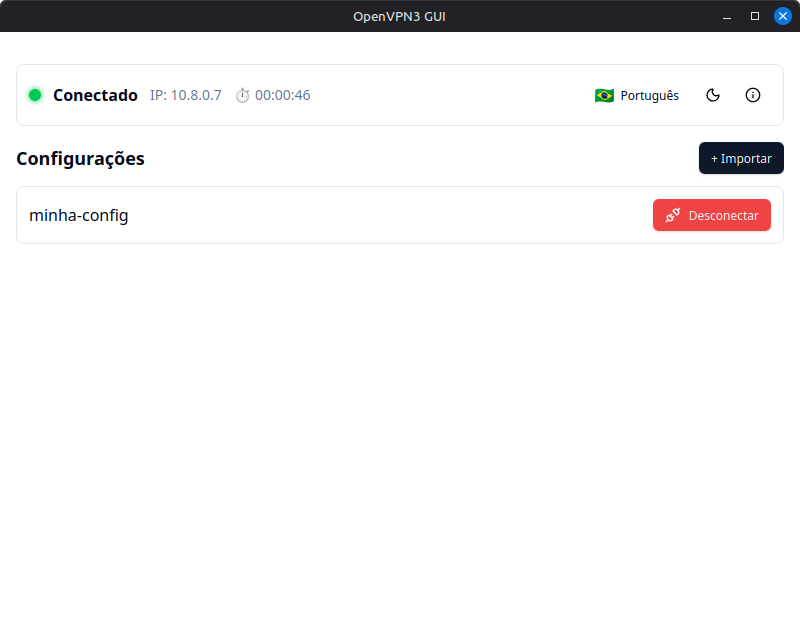
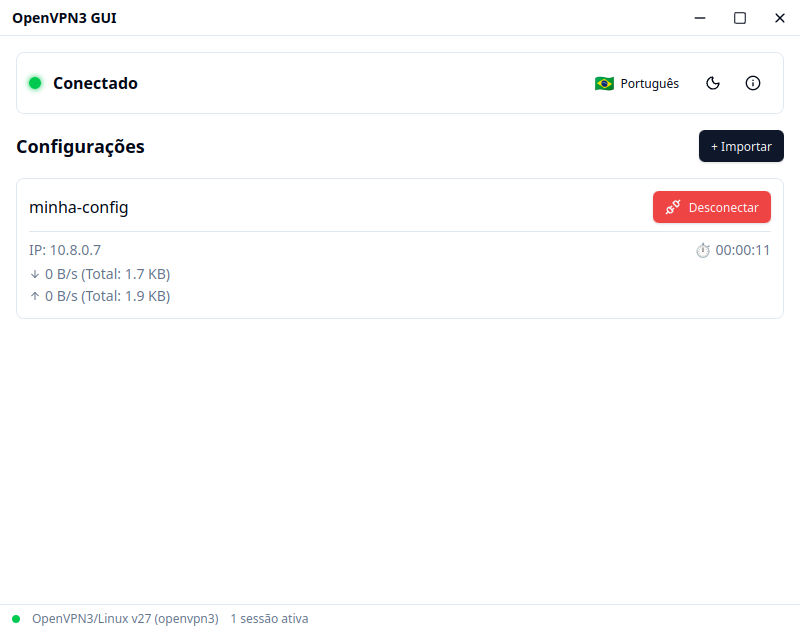
updating docs

diff --git a/docs/src/components/sections/Features.tsx b/docs/src/components/sections/Features.tsx
@@ -1,11 +1,14 @@
-import { FileUp, Plug, Activity, AppWindow, Moon, Languages } from "lucide-react";
+import { FileUp, Plug, Activity, AppWindow, Moon, Languages, BarChart3, PanelTop, Layers } from "lucide-react";
 import { useI18n } from "@/lib/i18n";
 import type { TranslationKey } from "@/locales";
 
 const features: { icon: React.ReactNode; titleKey: TranslationKey; descKey: TranslationKey }[] = [
   { icon: <FileUp className="h-6 w-6" />, titleKey: "features.import.title", descKey: "features.import.desc" },
   { icon: <Plug className="h-6 w-6" />, titleKey: "features.connect.title", descKey: "features.connect.desc" },
+  { icon: <Layers className="h-6 w-6" />, titleKey: "features.multi.title", descKey: "features.multi.desc" },
+  { icon: <BarChart3 className="h-6 w-6" />, titleKey: "features.stats.title", descKey: "features.stats.desc" },
   { icon: <Activity className="h-6 w-6" />, titleKey: "features.status.title", descKey: "features.status.desc" },
+  { icon: <PanelTop className="h-6 w-6" />, titleKey: "features.titlebar.title", descKey: "features.titlebar.desc" },
   { icon: <AppWindow className="h-6 w-6" />, titleKey: "features.tray.title", descKey: "features.tray.desc" },
   { icon: <Moon className="h-6 w-6" />, titleKey: "features.theme.title", descKey: "features.theme.desc" },
   { icon: <Languages className="h-6 w-6" />, titleKey: "features.i18n.title", descKey: "features.i18n.desc" },

diff --git a/CLAUDE.md b/CLAUDE.md
@@ -44,8 +44,10 @@ src/                        # Frontend
   components/
     ui/                     # Generic shadcn/ui components (Button, Dialog, DropdownMenu, AlertDialog)
     app/                    # App-specific components
+      TitleBar.tsx          # Custom titlebar with window controls (minimize, maximize, close)
       StatusBar.tsx         # Header: connection status + language/theme/about controls
-      ConfigItem.tsx        # Single config row with connect/disconnect/remove
+      StatusLine.tsx        # Footer: openvpn3 version + active session count
+      ConfigItem.tsx        # Single config row with connect/disconnect/remove + per-session stats
       ImportDialog.tsx      # Modal for naming a config during import
       AboutDialog.tsx       # About modal with author info
 
@@ -55,7 +57,7 @@ src-tauri/src/              # Backend (Rust)
   commands/
     mod.rs                  # Shared run_cmd() helper for executing openvpn3
     config.rs               # list_configs, import_config, remove_config
-    session.rs              # connect (async), disconnect (async), get_status
+    session.rs              # connect (async), disconnect (async), get_status, get_session_stats (async), get_openvpn_version
     tray.rs                 # set_tray_language — rebuilds tray menu from locale JSON
 ```
 
@@ -70,6 +72,7 @@ src-tauri/src/              # Backend (Rust)
 ### Backend
 - All openvpn3 interaction is via `std::process::Command` wrapping the CLI
 - `connect` and `disconnect` are async using `tauri::async_runtime::spawn_blocking` to avoid blocking the main thread
+- `get_session_stats` is async — measures ping via ICMP (`ping -c 1`) and reads TUN_BYTES_IN/OUT from `openvpn3 session-stats`
 - Tray menu is rebuilt dynamically when language changes (frontend calls `set_tray_language`)
 - Window close is intercepted to hide (minimize to tray) instead of quit
 - Translations embedded at compile time via `include_str!()`
@@ -85,12 +88,14 @@ src-tauri/src/              # Backend (Rust)
 - `configs-list` output: table with "Configuration Name" header, dashes separator, then rows of "name    date_or_dash"
 - `sessions-list` output: block with "Config name:", "Device:", "Created:" fields. Device may be on same line as Owner.
 - `sessions-list` when empty: prints "No sessions available"
+- `session-stats -c <name>` output: key-value pairs including TUN_BYTES_IN, TUN_BYTES_OUT
+- `version` output: first line contains the openvpn3 version string
 - Virtual IP is obtained from `ip addr show <tun_device>` (not from openvpn3 directly)
 - Commands don't require sudo
 
 ## Configuration
 
-- `src-tauri/tauri.conf.json`: app config (productName, window, bundle, identifier)
-- `src-tauri/capabilities/default.json`: Tauri permissions (core, dialog, opener)
+- `src-tauri/tauri.conf.json`: app config (productName, window, bundle, identifier); `"decorations": false` disables native titlebar
+- `src-tauri/capabilities/default.json`: Tauri permissions (core, dialog, opener, window controls: allow-close, allow-minimize, allow-toggle-maximize, allow-start-dragging)
 - `productName` = "OpenVPN3-GUI" (controls WM_CLASS for taskbar icon)
 - `mainBinaryName` = "openvpn3-gui" (controls binary and package name)

diff --git a/README.md b/README.md
@@ -21,7 +21,11 @@
 
 - **Import configurations** (.ovpn/.conf) with name validation and duplicate detection
 - **List, connect, disconnect, and remove** VPN configurations
-- **Real-time status** — Virtual IP and connection uptime
+- **Multiple simultaneous sessions** — Connect to multiple VPN configs at the same time
+- **Session statistics** — Per-session download/upload speed, ping, total bytes transferred, and connection uptime
+- **Real-time status** — Virtual IP, connection uptime, and live traffic stats per session
+- **Custom titlebar** — Native-looking custom titlebar integrated with the app design
+- **Status bar** — Footer showing openvpn3 version and active session count
 - **System tray** — Minimize to tray on close; click to restore
 - **Dark / Light themes**
 - **Multi-language** — English, Português (BR), Español (easily extensible)
@@ -113,6 +117,10 @@ openvpn3-gui/
 │   ├── components/
 │   │   ├── ui/               # Generic shadcn/ui components
 │   │   └── app/              # App-specific components
+│   │       ├── TitleBar.tsx   # Custom titlebar with window controls
+│   │       ├── StatusBar.tsx  # Header: connection indicator + controls
+│   │       ├── StatusLine.tsx # Footer: openvpn3 version + session count
+│   │       └── ConfigItem.tsx # Config card with stats
 │   ├── locales/index.ts      # Locale registry
 │   └── lib/                  # Providers (i18n, theme, utils)
 ├── src-tauri/                # Backend (Rust + Tauri 2)
@@ -120,7 +128,7 @@ openvpn3-gui/
 │       ├── lib.rs            # App setup (tray, plugins, window)
 │       └── commands/         # Command modules
 │           ├── config.rs     # list, import, remove configs
-│           ├── session.rs    # connect, disconnect, status
+│           ├── session.rs    # connect, disconnect, status, session-stats, version
 │           └── tray.rs       # Tray language sync
 └── scripts/                  # Dev/build automation
 ```
@@ -145,7 +153,9 @@ openvpn3-gui/
 | Remove | `openvpn3 config-remove --config <name> --force` |
 | Connect | `openvpn3 session-start --config <name>` |
 | Disconnect | `openvpn3 session-manage --disconnect --config <name>` |
+| Session stats | `openvpn3 session-stats -c <name>` |
 | Status | `openvpn3 sessions-list` + `ip addr show <device>` |
+| Version | `openvpn3 version` |
 
 ## Adding a New Language
 
